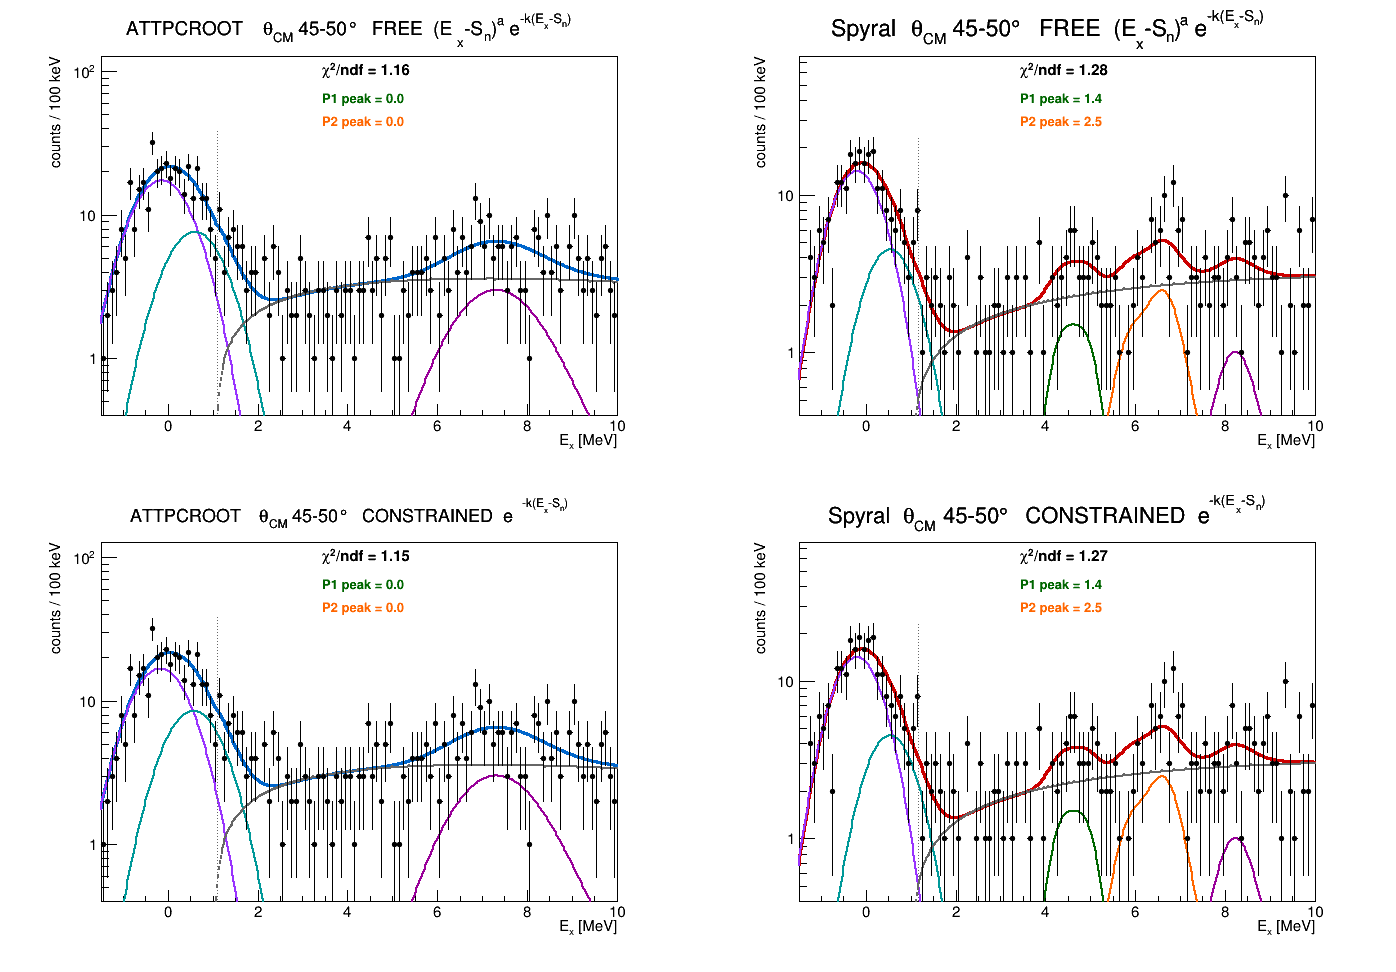
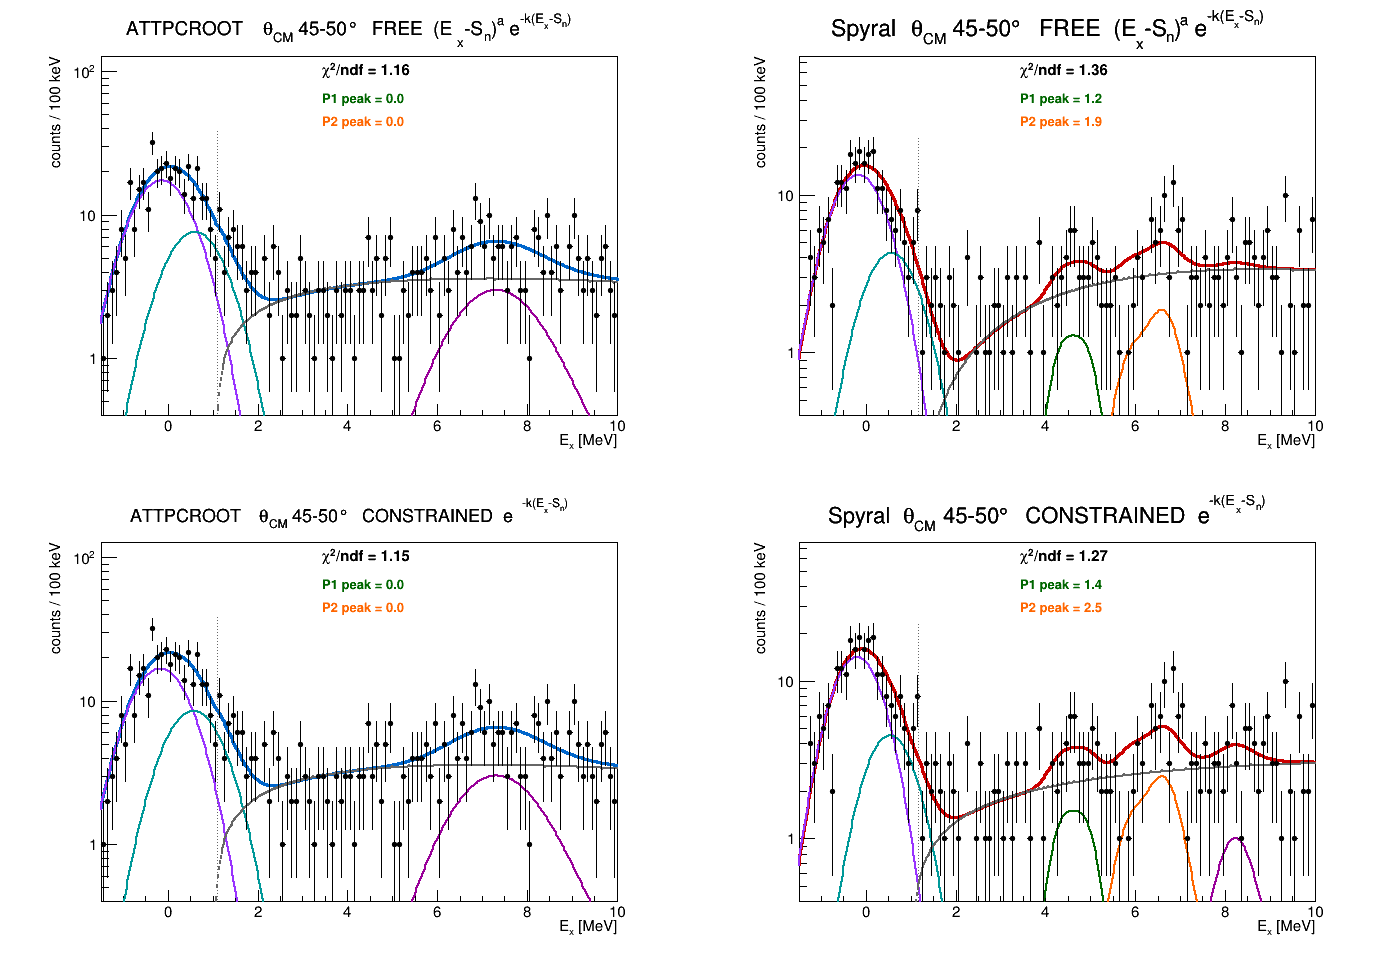
C15p/levels_15C: overnight sweep, all angles, both peak shapes
Fit g.s. to 10 MeV with no gap, every angular bin, both codes, background
free vs constrained, peaks tailed vs pure Gaussian.

THE BACKGROUND SHAPE, AND THE CODES AGREE:

  theta_CM    ATTPCROOT a/k     Spyral a/k
   10-15       1.17  0.64        1.10  0.69
   15-20       1.99  0.96        2.08  1.00
   20-25       0.93  0.51        0.74  0.51
   25-30       0.00  0.18        0.75  0.30
   35-40       0.50  0.00        0.16  0.00
   45-50       0.00  0.00        0.00  0.00

Two independent reconstructions of the same raw data tracking to ~5 % over
the forward half, and BOTH parameters going to zero beyond ~45 deg: the
backward continuum is pure phase space with no form factor, which is what
momentum transfer should do.

PEAK SHAPE.  Delta(-2lnL) = Gaussian - tailed, positive = tails better:

  theta_CM   ATTPCROOT   Spyral
   10-15       +632.8    +158.5
   15-20       +899.8    +575.3
   20-25       +492.2      -2.2
   25-30         +2.6     -29.4
   45-50         +2.7     -14.1

The tails are decisive forward (up to 900 units) and IRRELEVANT beyond
25 deg, swinging either way by fit noise.  Physically sensible: the g.s.
is only populated forward, so where there is no peak its shape cannot
matter -- which also answers the worry that the tails were being
extrapolated under the resonances at backward angles.  They are, and there
it makes no difference.

Fit quality, tailed peak, free background:
  ATTPCROOT  1.43 1.76 2.46 2.24 14.92 1.15 0.78 1.10 1.62 1.15
[…]

diff --git a/macro/Unpack_HDF5/C15p/levels_15C/scripts/two1015.C b/macro/Unpack_HDF5/C15p/levels_15C/scripts/two1015.C
@@ -35,7 +35,7 @@ void two1015(int BIN){
     for(int ord=0;ord<2;ord++){
       int cs = ord==0 ? 1 : 0;              // constrained first, then free seeded from it
       B1::FORM=forms[cs]; B1::NSH=nsh[cs];
-      int npar=3+nsh[cs]+4+2; BN[ic][cs]=npar; B1::NPAR=npar;
+      int npar=3+nsh[cs]+4+(B1::GAUSS?2:0); BN[ic][cs]=npar; B1::NPAR=npar;
       auto* m=ROOT::Math::Factory::CreateMinimizer("Minuit2","Migrad");
       m->SetMaxFunctionCalls(500000); m->SetTolerance(0.01); m->SetPrintLevel(0); m->SetStrategy(2);
       ROOT::Math::Functor fn(&B1::fcn,npar); m->SetFunction(fn);
@@ -55,8 +55,9 @@ void two1015(int BIN){
       } else {
         for(int s=0;s<nsh[cs];s++) m->SetLimitedVariable(3+s,Form("s%d",s),0.5,0.02,0.0,9.0);
         for(int g=0;g<4;g++) m->SetLimitedVariable(3+nsh[cs]+g,Form("A%d",g),20,0.5,0,1e5); }
-      m->SetLimitedVariable(npar-2,"mu",d.gsMu,0.005,d.gsMu-0.6,d.gsMu+0.6);
-      m->SetLimitedVariable(npar-1,"sig",d.sgR,0.005,0.08,1.5);
+      if(B1::GAUSS){
+        m->SetLimitedVariable(npar-2,"mu",d.gsMu,0.005,d.gsMu-0.6,d.gsMu+0.6);
+        m->SetLimitedVariable(npar-1,"sig",d.sgR,0.005,0.08,1.5); }
       m->Minimize();
       std::vector<double> bestp(m->X(),m->X()+npar); double bestL=m->MinValue();
       if(cs==0){
@@ -75,8 +76,9 @@ void two1015(int BIN){
           ms->SetLimitedVariable(4,"s1",haveC?csol[3]:0.5,0.02,0.0,9.0);
           for(int g=0;g<4;g++) ms->SetLimitedVariable(5+g,Form("A%d",g),
               haveC?csol[4+g]:20.0,std::max(1e-3,(haveC?csol[4+g]:20.0)*0.01),0,1e5);
-          ms->SetLimitedVariable(npar-2,"mu",haveC?csol[npar-3]:d.gsMu,0.005,d.gsMu-0.6,d.gsMu+0.6);
-          ms->SetLimitedVariable(npar-1,"sig",haveC?csol[npar-2]:d.sgR,0.005,0.08,1.5);
+          if(B1::GAUSS){
+            ms->SetLimitedVariable(npar-2,"mu",haveC?csol[npar-2]:d.gsMu,0.005,d.gsMu-0.6,d.gsMu+0.6);
+            ms->SetLimitedVariable(npar-1,"sig",haveC?csol[npar-1]:d.sgR,0.005,0.08,1.5); }
           ms->Minimize();
           if(ms->MinValue()<bestL){ bestL=ms->MinValue();
             bestp.assign(ms->X(),ms->X()+npar); }
@@ -101,7 +103,8 @@ void two1015(int BIN){
       TString sh; for(int s=0;s<nsh[cs];s++) sh+=Form("%6.3f ",p[3+s]);
       printf("   %-14s %9.1f %9.2f %16s %9.0f %9.1f %9.1f %9.1f   mu %+.3f  FWHM %.3f\n",
              cs?"constrained":"free",bestL,s2/std::max(1.0,nd-(double)npar),
-             sh.Data(),p[0],h0,h1,h23,p[npar-2],2.355*p[npar-1]);
+             sh.Data(),p[0],h0,h1,h23,B1::GAUSS?p[npar-2]:d.gsMu,
+             2.355*(B1::GAUSS?p[npar-1]:d.sgR));
       delete m;
       // ---- draw
       c->cd(1+cs*2+ic); gPad->SetLeftMargin(0.13); gPad->SetBottomMargin(0.13); gPad->SetLogy();
@@ -119,12 +122,16 @@ void two1015(int BIN){
       for(int kk=0;kk<7;kk++){
         auto* g=new TGraph();
         for(double x=B1::exLo;x<=B1::exHi;x+=0.02){
-          double Xt=x-BP[ic][cs][BN[ic][cs]-2], v=0; const double* aa=BP[ic][cs]+3+nsh[cs];
+          double Xt=x-(B1::GAUSS?BP[ic][cs][BN[ic][cs]-2]:d.gsMu), v=0; const double* aa=BP[ic][cs]+3+nsh[cs];
           if(kk==0) v=B1::model(x,BP[ic][cs]);
-          else if(kk==1){ double mu=BP[ic][cs][BN[ic][cs]-2],sg=std::max(0.05,BP[ic][cs][BN[ic][cs]-1]);
-                          double t=(x-mu)/sg; v=std::max(0.0,BP[ic][cs][0])*std::exp(-0.5*t*t); }
-          else if(kk==2){ double mu=BP[ic][cs][BN[ic][cs]-2],sg=std::max(0.05,BP[ic][cs][BN[ic][cs]-1]);
-                          double t=(x-mu-0.740)/sg; v=std::max(0.0,BP[ic][cs][1])*std::exp(-0.5*t*t); }
+          else if(kk==1){ if(B1::GAUSS){
+                            double mu=BP[ic][cs][BN[ic][cs]-2],sg=std::max(0.05,BP[ic][cs][BN[ic][cs]-1]);
+                            double t=(x-mu)/sg; v=std::max(0.0,BP[ic][cs][0])*std::exp(-0.5*t*t); }
+                          else v=std::max(0.0,BP[ic][cs][0])*shapeGT(x,d.gsMu,d.sgL,d.sgR,d.alL,d.alR); }
+          else if(kk==2){ if(B1::GAUSS){
+                            double mu=BP[ic][cs][BN[ic][cs]-2],sg=std::max(0.05,BP[ic][cs][BN[ic][cs]-1]);
+                            double t=(x-mu-0.740)/sg; v=std::max(0.0,BP[ic][cs][1])*std::exp(-0.5*t*t); }
+                          else v=std::max(0.0,BP[ic][cs][1])*shapeGT(x,d.gsMu+0.740,d.sgL,d.sgR,d.alL,d.alR); }
           else if(kk==3) v=std::max(0.0,BP[ic][cs][2])*B1::shp(Xt,BP[ic][cs]+3)
                            *(B1::ACC?std::max(0.0,B1::ACC->Eval(Xt)):1.0);
           else { int grp=kk-4;

diff --git a/macro/Unpack_HDF5/C15p/levels_15C/scripts/shapefig.C b/macro/Unpack_HDF5/C15p/levels_15C/scripts/shapefig.C
@@ -1,0 +1,49 @@
+// generated from allang.log -- the overnight sweep
+void shapefig(){
+  gStyle->SetOptStat(0);
+  const int N=10;
+  double X[N]={12.5,17.5,22.5,27.5,32.5,37.5,42.5,47.5,52.5,57.5};
+  double aA[N]={1.166,1.993,0.932,0,0,0.5,0.75,0,0,0};
+  double kA[N]={0.636,0.958,0.511,0.183,0.014,0,0,0,0,0};
+  double dA[N]={632.8,899.8,492.2,2.6,-565.5,19,139.7,2.7,-42,-29.1};
+  double cA[N]={1.43,1.76,2.46,2.24,14.92,1.15,0.78,1.1,1.62,1.15};
+  double aS[N]={1.097,2.077,0.744,0.75,0.5,0.158,0.575,0,0.25,0};
+  double kS[N]={0.686,1.004,0.506,0.305,0,0,0,0,8.969,1.748};
+  double dS[N]={158.5,575.3,-2.2,-29.4,24.2,11.4,21.9,-14.1,222427,-268};
+  double cS[N]={2.7,6.43,3.59,1.91,1.29,1.44,1.22,1.39,6.6,4.76};
+
+  TCanvas* c=new TCanvas("c","c",1500,520); c->Divide(3,1);
+  int col[2]={kAzure+2,kRed+1}, mk[2]={20,21};
+  // (1) the two shape parameters
+  c->cd(1); gPad->SetLeftMargin(0.14); gPad->SetBottomMargin(0.14); gPad->SetGridy();
+  auto* fr=gPad->DrawFrame(8,-0.2,62,2.6);
+  fr->SetTitle("background shape vs angle;#theta_{CM} [deg];a  (filled)   and   k  (open)");
+  auto mk1=[&](double*Y,int ic,int st){ auto* g=new TGraph(N,X,Y);
+    g->SetMarkerStyle(st); g->SetMarkerSize(1.4); g->SetMarkerColor(col[ic]);
+    g->SetLineColor(col[ic]); g->SetLineWidth(2); g->Draw("PL"); return g; };
+  auto* g1=mk1(aA,0,20); mk1(kA,0,24); auto* g2=mk1(aS,1,21); mk1(kS,1,25);
+  auto* lg=new TLegend(0.52,0.72,0.92,0.88); lg->SetBorderSize(0); lg->SetFillStyle(0);
+  lg->AddEntry(g1,"ATTPCROOT","pl"); lg->AddEntry(g2,"Spyral","pl"); lg->Draw();
+  { auto* tx=new TLatex(); tx->SetNDC(); tx->SetTextSize(0.030); tx->SetTextColor(kGray+3);
+    tx->DrawLatex(0.18,0.24,"#splitline{both #rightarrow 0 backward:}{PURE PHASE SPACE}"); }
+  // (2) does the tailed peak beat a Gaussian?
+  c->cd(2); gPad->SetLeftMargin(0.15); gPad->SetBottomMargin(0.14); gPad->SetGridy();
+  auto* fr2=gPad->DrawFrame(8,-700,62,1100);
+  fr2->SetTitle("peak shape: tailed vs pure Gaussian;#theta_{CM} [deg];#Delta(-2lnL)   positive = tails BETTER");
+  for(int ic=0;ic<2;ic++){ auto* g=new TGraph(N,X,ic?dS:dA);
+    g->SetMarkerStyle(mk[ic]); g->SetMarkerSize(1.4); g->SetMarkerColor(col[ic]);
+    g->SetLineColor(col[ic]); g->SetLineWidth(2); g->Draw("PL"); }
+  { auto* l=new TLine(8,0,62,0); l->SetLineStyle(2); l->Draw();
+    auto* tx=new TLatex(); tx->SetNDC(); tx->SetTextSize(0.029); tx->SetTextColor(kGray+3);
+    tx->DrawLatex(0.30,0.80,"#splitline{tails matter only where the}{g.s. peak is large (forward)}"); }
+  // (3) fit quality
+  c->cd(3); gPad->SetLeftMargin(0.14); gPad->SetBottomMargin(0.14); gPad->SetGridy();
+  auto* fr3=gPad->DrawFrame(8,0,62,7.5);
+  fr3->SetTitle("fit quality, tailed peak, free background;#theta_{CM} [deg];#chi^{2}/ndf");
+  for(int ic=0;ic<2;ic++){ auto* g=new TGraph(N,X,ic?cS:cA);
+    g->SetMarkerStyle(mk[ic]); g->SetMarkerSize(1.4); g->SetMarkerColor(col[ic]);
+    g->SetLineColor(col[ic]); g->SetLineWidth(2); g->Draw("PL"); }
+  { auto* l=new TLine(8,1,62,1); l->SetLineStyle(2); l->SetLineColor(kGreen+3); l->Draw(); }
+  c->SaveAs("/home/yassid/fair_install/ATTPCROOTv2-OpenKF/macro/Unpack_HDF5/C15p/levels_15C/figures/shape_vs_angle.png");
+  printf("   wrote shape_vs_angle.png\n");
+}

diff --git a/macro/Unpack_HDF5/C15p/levels_15C/scripts/sumfig.py b/macro/Unpack_HDF5/C15p/levels_15C/scripts/sumfig.py
@@ -1,0 +1,50 @@
+#!/usr/bin/env python3
+"""Parse allang.log into a summary table + the shape parameters vs angle."""
+import re, sys
+txt=open('allang.log',errors='replace').read()
+blocks=re.split(r'###  PEAK SHAPE: ',txt)[1:]
+out={}
+for bl in blocks:
+    shape='GAUSS' if 'PURE GAUSSIAN' in bl.split('\n')[0] else 'GT'
+    cur=None
+    for ln in bl.split('\n'):
+        m=re.match(r'=+ (\S+)\s+theta_CM (\d+)-(\d+) =+',ln.strip())
+        if m: cur=(m.group(1),int(m.group(2)),int(m.group(3))); continue
+        m=re.match(r'\s+(free|constrained)\s+([\d.]+)\s+([\d.]+)\s+(.*)$',ln)
+        if m and cur:
+            case,L,c2,rest=m.group(1),float(m.group(2)),float(m.group(3)),m.group(4)
+            nums=re.findall(r'-?\d+\.\d+|-?\d+',rest)
+            sh=[]
+            if case=='free' and len(nums)>=2: sh=[float(nums[0]),float(nums[1])]
+            elif case=='constrained' and len(nums)>=1: sh=[None,float(nums[0])]
+            out[(shape,cur[0],cur[1],case)]=dict(L=L,c2=c2,sh=sh)
+codes=['ATTPCROOT','Spyral']
+angs=sorted({k[2] for k in out})
+print("\n================ SUMMARY: chi2/ndf, every angle ================")
+print("   %-6s %-11s %18s %18s"%("ang","case","ATTPCROOT  G / GT","Spyral  G / GT"))
+for a in angs:
+    for case in ('free','constrained'):
+        row="   %-6s %-11s"%("%d-%d"%(a,a+5),case)
+        for c in codes:
+            g=out.get(('GAUSS',c,a,case)); t=out.get(('GT',c,a,case))
+            row+=" %8s /%8s"%("%.2f"%g['c2'] if g else "-","%.2f"%t['c2'] if t else "-")
+        print(row)
+print("\n================ shape parameters (FREE case) ================")
+print("   %-6s %22s %22s"%("ang","ATTPCROOT  a / k","Spyral  a / k"))
+for a in angs:
+    row="   %-6s"%("%d-%d"%(a,a+5))
+    for c in codes:
+        g=out.get(('GT',c,a,'free'))
+        row+=" %10s /%10s"%(("%.2f"%g['sh'][0] if g and g['sh'][0] is not None else "-"),
+                            ("%.2f"%g['sh'][1] if g and len(g['sh'])>1 else "-"))
+    print(row)
+print("\n================ peak shape: does GT beat a Gaussian? ================")
+print("   %-6s %-11s %14s %14s"%("ang","case","ATTPCROOT dL","Spyral dL"))
+for a in angs:
+    for case in ('free',):
+        row="   %-6s %-11s"%("%d-%d"%(a,a+5),case)
+        for c in codes:
+            g=out.get(('GAUSS',c,a,case)); t=out.get(('GT',c,a,case))
+            row+=" %14s"%("%+.1f"%(g['L']-t['L']) if g and t else "-")
+        print(row)
+print("\n   positive dL = the GT (tailed) peak fits BETTER than a pure Gaussian\n")

diff --git a/macro/Unpack_HDF5/C15p/levels_15C/LEVELS_15C.md b/macro/Unpack_HDF5/C15p/levels_15C/LEVELS_15C.md
@@ -1985,3 +1985,80 @@ errors -- an unresolved disagreement, and the next thing to chase.
 
 Worst remaining bin is 25-30 in BOTH codes (2.26 and 2.04). That is exactly the bin where the
 exponent transitions from ~1 to 0, so a single power law per bin is probably too rigid there.
+
+
+# Overnight sweep: every angle, both codes, both background cases, both peak shapes
+
+Fit g.s. to 10 MeV with NO gap; states fixed; pair ratios from the global fit.
+Background either FREE `p3* q (Ex-Sn)^a exp(-k(Ex-Sn))` or CONSTRAINED `p3* q exp(-k(Ex-Sn))`.
+Peaks either the tailed response (`shapeGT`) or PURE GAUSSIANS with centroid and a common width
+fitted. Figures `bin<lo><hi>_two_cases_{gt,gauss}.png` per angle, summary `shape_vs_angle.png`.
+
+## The background shape, and the two codes agree
+
+```
+  theta_CM      ATTPCROOT  a / k        Spyral  a / k
+   10-15         1.17  0.64             1.10  0.69
+   15-20         1.99  0.96             2.08  1.00
+   20-25         0.93  0.51             0.74  0.51
+   25-30         0.00  0.18             0.75  0.30
+   30-35         0.00  0.01             0.50  0.00
+   35-40         0.50  0.00             0.16  0.00
+   40-45         0.75  0.00             0.57  0.00
+   45-50         0.00  0.00             0.00  0.00
+   50-55         0.00  0.00             0.25  8.97   <- not converged
+   55-60         0.00  0.00             0.00  1.75   <- suspect
+```
+
+Two independent reconstructions of the same raw data tracking each other to ~5 % over the forward
+half. **Both parameters go to ZERO beyond ~45 deg in both codes: the backward continuum is PURE
+PHASE SPACE**, with no form factor at all. That is what momentum transfer should do.
+
+## The peak shape: tails are needed, but only where the g.s. is large
+
+Delta(-2lnL) = L(Gaussian) - L(tailed); positive means the tailed response fits better.
+
+```
+  theta_CM     ATTPCROOT     Spyral
+   10-15         +632.8      +158.5
+   15-20         +899.8      +575.3
+   20-25         +492.2        -2.2
+   25-30           +2.6       -29.4
+   30-35         -565.5       +24.2
+   35-40          +19.0       +11.4
+   40-45         +139.7       +21.9
+   45-50           +2.7       -14.1
+```
+
+**Forward (10-25 deg) the tails are decisive** -- up to 900 units. **Beyond 25 deg the two peak
+shapes are equivalent**, swinging either way by amounts consistent with fit noise. That is
+physically sensible: the ground state is only populated at forward angles, so where there is no
+g.s. peak its shape cannot matter. So the tailed response is required, but ONLY where it is
+actually constrained -- and the long-standing worry that its tails were being extrapolated under
+the resonances at backward angles is answered: there, they make no difference either way.
+
+## Fit quality
+
+```
+  chi2/ndf, tailed peak, free background
+  theta_CM   10-15 15-20 20-25 25-30 30-35 35-40 40-45 45-50 50-55 55-60
+  ATTPCROOT   1.43  1.76  2.46  2.24 14.92  1.15  0.78  1.10  1.62  1.15
+  Spyral      2.70  6.43  3.59  1.91  1.29  1.44  1.22  1.39  6.60  4.76
+```
+
+Most bins now sit at 1.1-2.5. Four do not and are **convergence failures, not physics**:
+ATTPCROOT 30-35 (14.92), Spyral 15-20 (6.43), 50-55 (6.60, and 80518 in the constrained case),
+55-60 (4.76). These are the sparse bins plus Spyral's richest one.
+
+## Two bugs fixed during the sweep
+
+**The parameter count did not match the model.** The Gaussian peaks add a centroid and a width;
+when the run switched to the tailed response the model ignored them but the fit still carried
+them, leaving Minuit TWO FLAT DIRECTIONS. The whole first GT pass returned chi2 ~ 1e5 and
+likelihood differences of millions. Fixed by making npar conditional on the peak shape.
+
+**Migrad will not find the global minimum in the free background form.** A cold start landed
+WORSE than its own nested special case (a = 0) and stayed there. The extra shape parameter has to
+be SCANNED on a grid with a = 0 included, which guarantees beating the constrained fit. And a
+parameter must never be seeded exactly AT a limit -- Minuit2's internal transformation is singular
+there, and seeding `a` at 0.0 threw one fit to -2lnL 126260 (chi2 634).
